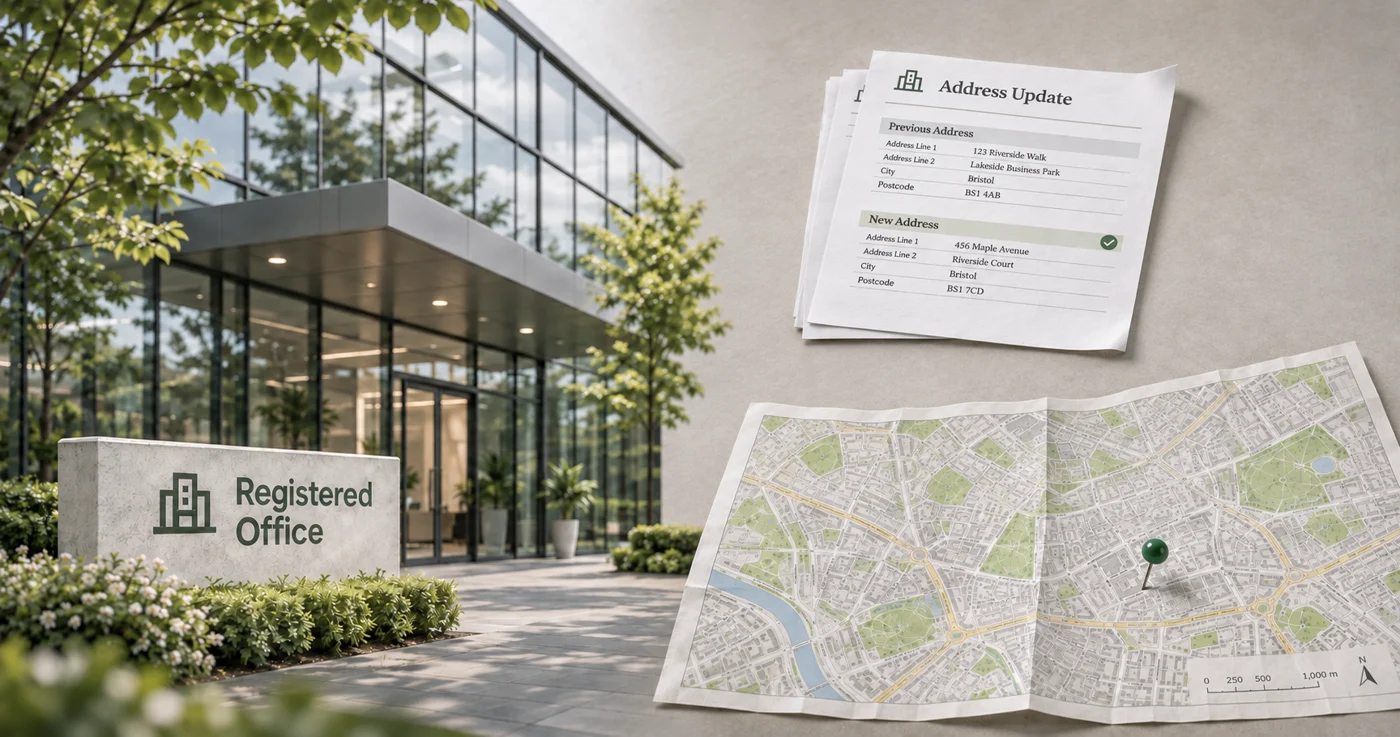
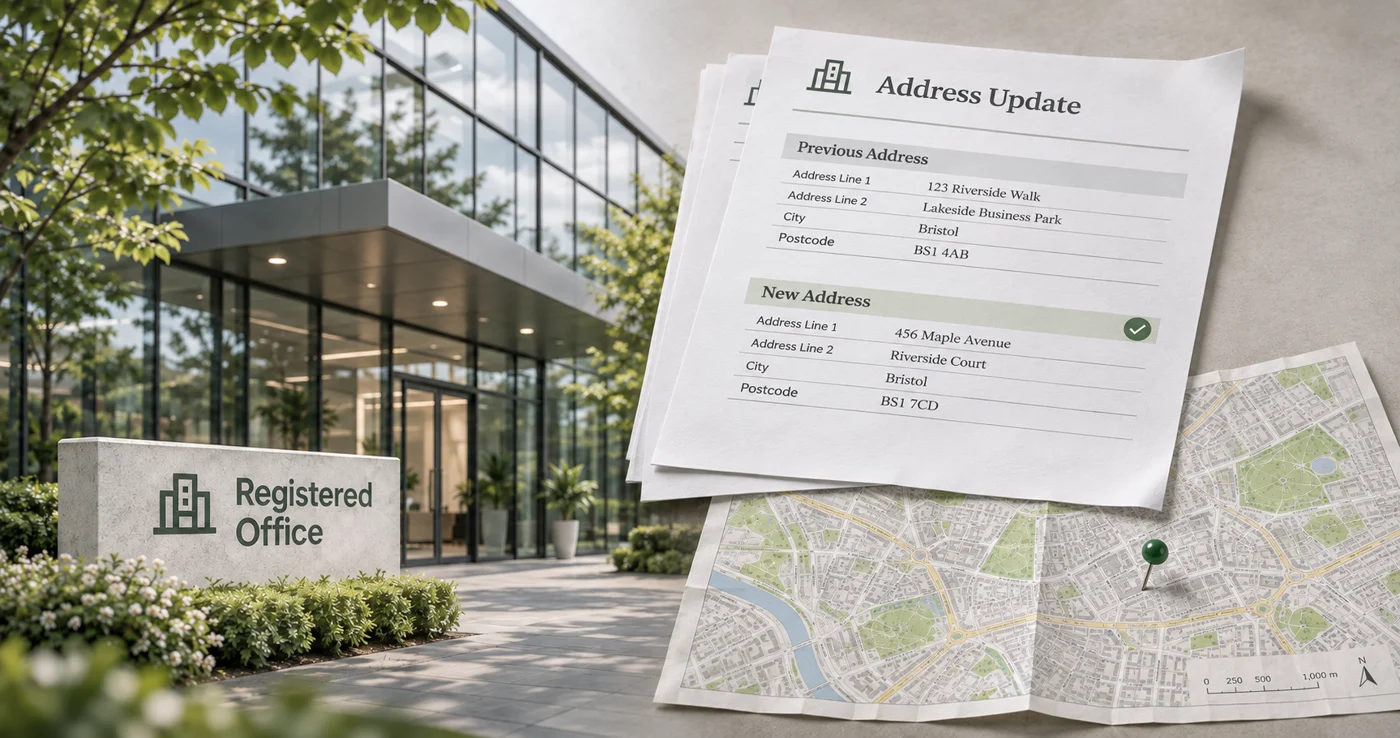
Address card: larger address update photo
Claude-Session: https://claude.ai/code/session_01Q8SfPFzKec2UT1Fop63zbA

diff --git a/company-registration.html b/company-registration.html
@@ -7625,7 +7625,7 @@ input, select, textarea {
       </div>
     </section>
 
-    <section class="crc-sec" aria-label="Company registration services"><div class="bcx-wrap crc-bcx"><div class="bcx-grid"><article class="bcx-card"><div class="bcx-img" aria-hidden="true"><img src="assets/crc-formation-meeting.webp?v=3" alt="" loading="lazy" decoding="async" style="object-position:center top"></div><h3>Company formation &amp; consultation</h3><p>Set up your company with expert advice.</p></article><article class="bcx-card"><div class="bcx-img" aria-hidden="true"><img src="assets/crc-shares.webp" alt="" loading="lazy" decoding="async" style="object-position:center top"></div><h3>Transfer, issue or merge of shares</h3><p>Share transfers, issues and mergers.</p></article><article class="bcx-card"><div class="bcx-img" aria-hidden="true"><img src="assets/crc-activity.webp" alt="" loading="lazy" decoding="async" style="object-position:center top"></div><h3>Change of company activity</h3><p>Add or amend business activities.</p></article><article class="bcx-card"><div class="bcx-img" aria-hidden="true"><img src="assets/crc-address.webp?v=4" alt="" loading="lazy" decoding="async" style="object-position:center 30%"></div><h3>Change of company address</h3><p>Update your registered address.</p></article><article class="bcx-card"><div class="bcx-img" aria-hidden="true"><img src="assets/gosi-employment.webp" alt="" loading="lazy" decoding="async" style="object-position:55% 30%"></div><h3>Change of authorised persons and Board of Directors</h3><p>Update signatories and board members.</p></article><article class="bcx-card"><div class="bcx-img" aria-hidden="true"><img src="assets/int-sec-stamp-v2.webp" alt="" loading="lazy" decoding="async" style="object-position:center 50%"></div><h3>Certified copy of Memorandum of Association (MOA) and Articles of Association (AOA)</h3><p>Certified MOA and AOA copies.</p></article></div></div></section>
+    <section class="crc-sec" aria-label="Company registration services"><div class="bcx-wrap crc-bcx"><div class="bcx-grid"><article class="bcx-card"><div class="bcx-img" aria-hidden="true"><img src="assets/crc-formation-meeting.webp?v=3" alt="" loading="lazy" decoding="async" style="object-position:center top"></div><h3>Company formation &amp; consultation</h3><p>Set up your company with expert advice.</p></article><article class="bcx-card"><div class="bcx-img" aria-hidden="true"><img src="assets/crc-shares.webp" alt="" loading="lazy" decoding="async" style="object-position:center top"></div><h3>Transfer, issue or merge of shares</h3><p>Share transfers, issues and mergers.</p></article><article class="bcx-card"><div class="bcx-img" aria-hidden="true"><img src="assets/crc-activity.webp" alt="" loading="lazy" decoding="async" style="object-position:center top"></div><h3>Change of company activity</h3><p>Add or amend business activities.</p></article><article class="bcx-card"><div class="bcx-img" aria-hidden="true"><img src="assets/crc-address.webp?v=5" alt="" loading="lazy" decoding="async" style="object-position:center 25%"></div><h3>Change of company address</h3><p>Update your registered address.</p></article><article class="bcx-card"><div class="bcx-img" aria-hidden="true"><img src="assets/gosi-employment.webp" alt="" loading="lazy" decoding="async" style="object-position:55% 30%"></div><h3>Change of authorised persons and Board of Directors</h3><p>Update signatories and board members.</p></article><article class="bcx-card"><div class="bcx-img" aria-hidden="true"><img src="assets/int-sec-stamp-v2.webp" alt="" loading="lazy" decoding="async" style="object-position:center 50%"></div><h3>Certified copy of Memorandum of Association (MOA) and Articles of Association (AOA)</h3><p>Certified MOA and AOA copies.</p></article></div></div></section>
 
     <!-- CTA -->
     <section class="cr-cta" aria-labelledby="cr-cta-title">
